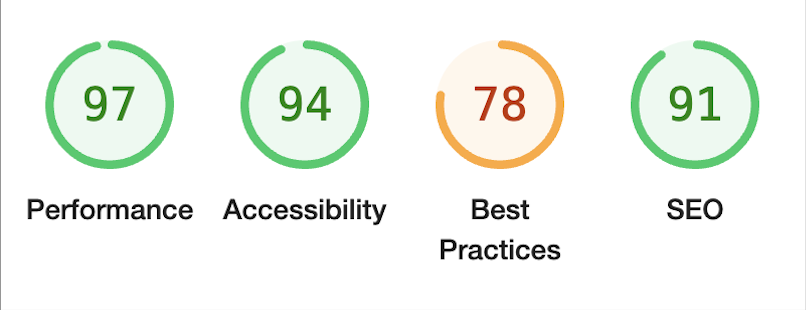
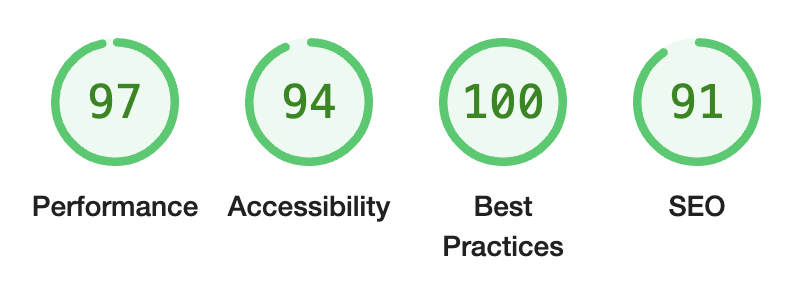
lighthouse testing

diff --git a/README.md b/README.md
@@ -133,6 +133,15 @@ A consistent issue throughout seemed to be revolving around accessibility. I tar
 <img src="docs/lighthouse/index.html.mobile.png">
 <img src="docs/lighthouse/contact.html.mobile-after.png">
 </details>
+<br>
+
+However, I found that when i resized the page for the index.html desktop page the best practices score dropped significantly
+
+<br>
+<details><summary>Desktop results - resized </summary>
+<img src="docs/lighthouse/index.html.desktop-resized.png">
+</details>
+<br>
 
 ### Validator Testing 
 
